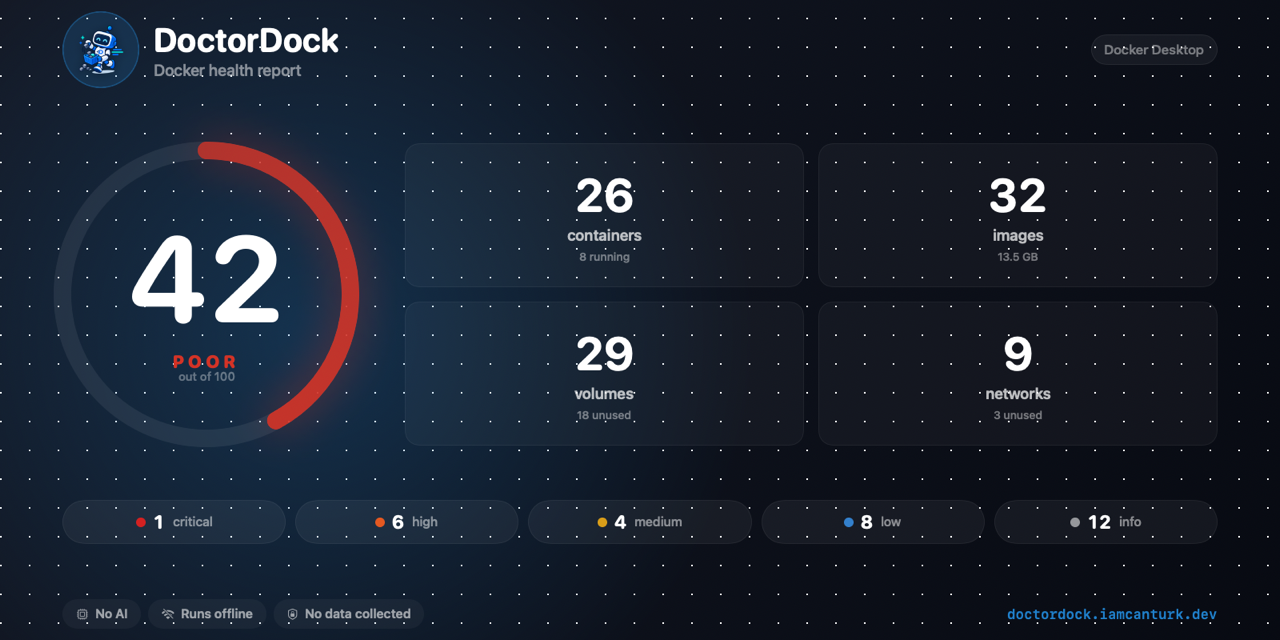
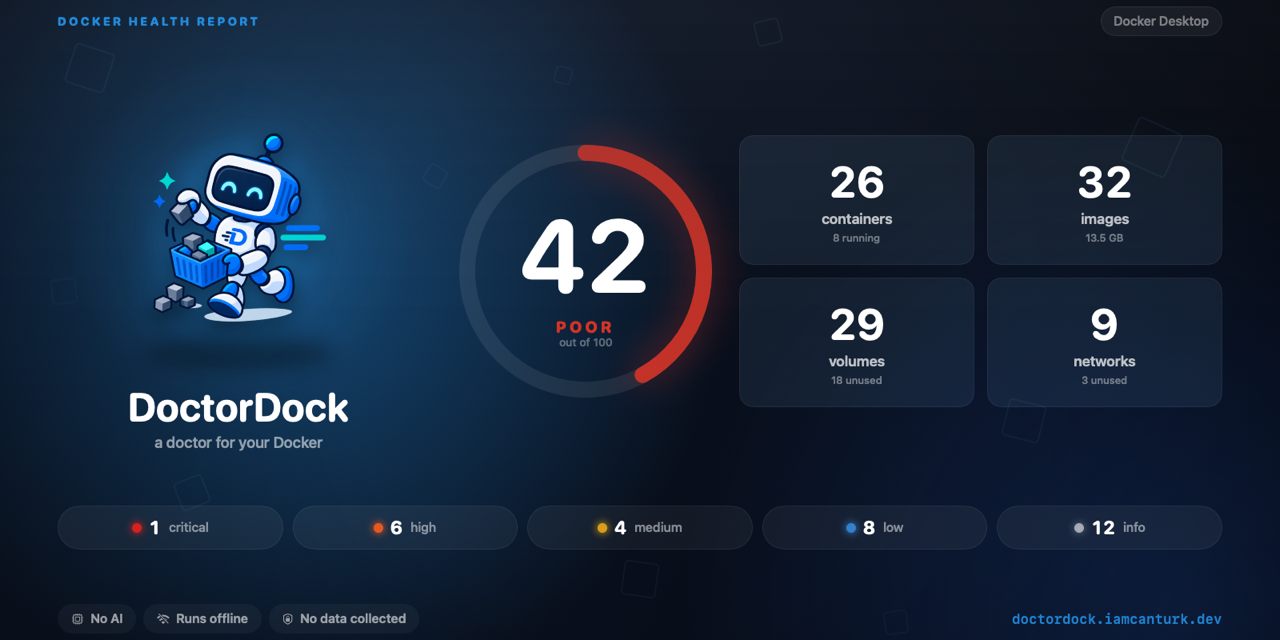
feat(app): more artistic share card — hero mascot, layered backdrop
Redesign the share card into a poster: the mascot is now a large hero
element with a glow and ground shadow, over a layered brand backdrop (blooms,
faint cube motif from the site, vignette) instead of the flat dot grid. The
score ring, metric tiles and severity row keep the aggregate-only privacy.
Re-export the OG/Twitter and GitHub social images (cache-bust to v4).

diff --git a/app/macos/Sources/DoctorDockApp/Panel/ShareCard.swift b/app/macos/Sources/DoctorDockApp/Panel/ShareCard.swift
@@ -14,7 +14,9 @@ import AppKit
 ///
 /// The canvas is 16:9. That is the size X, LinkedIn and most feeds display a
 /// single image at without cropping, and it doubles as the site's link-preview
-/// (og:image / twitter:image) card.
+/// (og:image / twitter:image) card. The composition is deliberately poster-like:
+/// the mascot is a hero element on the left, the numbers a clean panel on the
+/// right, over a layered brand-blue backdrop.
 struct ShareCard: View {
     let score: Int
     let summary: Summary
@@ -31,19 +33,21 @@ struct ShareCard: View {
         ZStack {
             background
             VStack(spacing: 0) {
-                header
-                Spacer(minLength: 20)
-                HStack(spacing: 68) {
-                    hero
-                    metrics
+                topBar
+                Spacer(minLength: 0)
+                HStack(alignment: .center, spacing: 60) {
+                    mascotPoster
+                        .frame(width: 452)
+                    stats
+                        .frame(maxWidth: .infinity)
                 }
-                Spacer(minLength: 20)
+                Spacer(minLength: 0)
                 severityRow
-                Spacer(minLength: 20)
+                Spacer(minLength: 22)
                 footer
             }
-            .padding(.horizontal, 78)
-            .padding(.vertical, 64)
+            .padding(.horizontal, 72)
+            .padding(.vertical, 58)
         }
         .frame(width: Self.size.width, height: Self.size.height)
         .environment(\.colorScheme, .dark)
@@ -53,111 +57,147 @@ struct ShareCard: View {
 
     private var background: some View {
         ZStack {
+            // Base: a deep navy, lit from the top-left.
             LinearGradient(
-                colors: [Color(red: 0.08, green: 0.10, blue: 0.15),
-                         Color(red: 0.03, green: 0.04, blue: 0.07)],
+                colors: [Color(red: 0.055, green: 0.095, blue: 0.17),
+                         Color(red: 0.02, green: 0.03, blue: 0.06)],
                 startPoint: .topLeading, endPoint: .bottomTrailing)
 
-            // A faint dot grid for texture — reads as "developer tool" without
-            // competing with the content.
-            DotGrid(spacing: 36, dotSize: 2)
-                .foregroundStyle(.white.opacity(0.03))
-
-            // A wash of the brand colour behind the score ring — the card is
-            // brand-first; the score's own colour lives in the ring itself.
+            // A big brand bloom behind the mascot, and a cooler one bottom-right,
+            // so the card has depth and a light source rather than a flat wash.
             RadialGradient(
-                colors: [Color.brand.opacity(0.22), .clear],
-                center: .init(x: 0.24, y: 0.52), startRadius: 20, endRadius: 560)
+                colors: [Color.brand.opacity(0.38), .clear],
+                center: .init(x: 0.23, y: 0.44), startRadius: 20, endRadius: 540)
+            RadialGradient(
+                colors: [Color(red: 0.13, green: 0.34, blue: 0.72).opacity(0.32), .clear],
+                center: .init(x: 0.92, y: 0.9), startRadius: 20, endRadius: 620)
+
+            // Faint outlined cubes — the same "developer tool" motif as the site,
+            // placed for texture without competing with the content.
+            CubeField()
+
+            // A soft top sheen and a vignette to focus the centre.
+            LinearGradient(colors: [.white.opacity(0.05), .clear],
+                           startPoint: .top, endPoint: .center)
+                .blendMode(.plusLighter)
+            RadialGradient(colors: [.clear, .black.opacity(0.38)],
+                           center: .center, startRadius: 380, endRadius: 1020)
         }
     }
 
-    // MARK: - Header
+    // MARK: - Top bar
 
-    private var header: some View {
-        HStack(spacing: 18) {
-            logo
-            VStack(alignment: .leading, spacing: 2) {
-                Text("DoctorDock")
-                    .font(.system(size: 42, weight: .bold, design: .rounded))
-                    .foregroundStyle(.white)
-                Text("Docker health report")
-                    .font(.system(size: 20, weight: .medium))
-                    .foregroundStyle(.white.opacity(0.5))
-            }
+    private var topBar: some View {
+        HStack(spacing: 10) {
+            Text("DOCKER HEALTH REPORT")
+                .font(.system(size: 15, weight: .heavy, design: .rounded))
+                .tracking(3)
+                .foregroundStyle(Color.brand.opacity(0.9))
             Spacer()
             if showPlatform, !platform.isEmpty {
                 Text(platform)
-                    .font(.system(size: 17, weight: .medium))
-                    .foregroundStyle(.white.opacity(0.42))
+                    .font(.system(size: 16, weight: .medium))
+                    .foregroundStyle(.white.opacity(0.44))
                     .padding(.horizontal, 16).padding(.vertical, 9)
                     .background(.white.opacity(0.05), in: Capsule())
-                    .overlay(Capsule().strokeBorder(.white.opacity(0.06)))
+                    .overlay(Capsule().strokeBorder(.white.opacity(0.07)))
             }
         }
     }
 
-    /// The mascot logo, on a soft brand-tinted disc. Falls back to a glyph in
-    /// contexts where the bundle has no copy of the image (a bare `swift run`).
-    private var logo: some View {
-        ZStack {
-            Circle()
-                .fill(Color.brand.opacity(0.16))
-                .frame(width: 96, height: 96)
-            Circle()
-                .strokeBorder(Color.brand.opacity(0.30), lineWidth: 1.5)
-                .frame(width: 96, height: 96)
-            if let mascot = BrandAsset.mascot {
-                mascot
-                    .resizable()
-                    .scaledToFit()
-                    .frame(width: 82, height: 82)
-                    .shadow(color: .black.opacity(0.35), radius: 6, y: 2)
-            } else {
-                Image(systemName: "stethoscope")
-                    .font(.system(size: 44, weight: .semibold))
-                    .foregroundStyle(Color.brand)
+    // MARK: - Mascot poster (the hero)
+
+    private var mascotPoster: some View {
+        VStack(spacing: 22) {
+            ZStack {
+                // Glow disc behind the mascot.
+                Circle()
+                    .fill(RadialGradient(
+                        colors: [Color.brand.opacity(0.5), Color.brand.opacity(0.06), .clear],
+                        center: .center, startRadius: 8, endRadius: 230))
+                    .frame(width: 420, height: 420)
+                    .blur(radius: 6)
+                // A soft ground shadow, so the character sits in the scene.
+                Ellipse()
+                    .fill(.black.opacity(0.4))
+                    .frame(width: 240, height: 36)
+                    .offset(y: 158)
+                    .blur(radius: 14)
+                mascotImage
+                    .frame(width: 320, height: 320)
+                    .shadow(color: Color.brand.opacity(0.55), radius: 34)
+                    .shadow(color: .black.opacity(0.45), radius: 12, y: 10)
+            }
+            .frame(height: 344)
+
+            VStack(spacing: 4) {
+                Text("DoctorDock")
+                    .font(.system(size: 50, weight: .bold, design: .rounded))
+                    .foregroundStyle(.white)
+                Text("a doctor for your Docker")
+                    .font(.system(size: 19, weight: .medium))
+                    .foregroundStyle(.white.opacity(0.55))
             }
         }
     }
 
-    // MARK: - Hero score
+    @ViewBuilder private var mascotImage: some View {
+        if let mascot = BrandAsset.mascot {
+            mascot.resizable().scaledToFit()
+        } else {
+            Image(systemName: "stethoscope")
+                .font(.system(size: 150, weight: .semibold))
+                .foregroundStyle(Color.brand)
+        }
+    }
+
+    // MARK: - Stats panel
+
+    private var stats: some View {
+        HStack(spacing: 44) {
+            hero
+            metrics
+        }
+    }
+
+    // MARK: - Hero score ring
 
     private var hero: some View {
         ZStack {
             Circle()
-                .stroke(.white.opacity(0.07), lineWidth: 22)
+                .stroke(.white.opacity(0.08), lineWidth: 20)
             Circle()
                 .trim(from: 0, to: CGFloat(score) / 100)
                 .stroke(
                     AngularGradient(
                         colors: [accent.opacity(0.7), accent],
                         center: .center, startAngle: .degrees(-90), endAngle: .degrees(270)),
-                    style: StrokeStyle(lineWidth: 22, lineCap: .round))
+                    style: StrokeStyle(lineWidth: 20, lineCap: .round))
                 .rotationEffect(.degrees(-90))
-                .shadow(color: accent.opacity(0.55), radius: 26)
-            VStack(spacing: -6) {
+                .shadow(color: accent.opacity(0.6), radius: 24)
+            VStack(spacing: -4) {
                 Text("\(score)")
-                    .font(.system(size: 152, weight: .bold, design: .rounded))
+                    .font(.system(size: 128, weight: .bold, design: .rounded))
                     .foregroundStyle(.white)
                     .monospacedDigit()
                 Text(Format.grade(score).uppercased())
-                    .font(.system(size: 22, weight: .heavy, design: .rounded))
-                    .tracking(5)
+                    .font(.system(size: 20, weight: .heavy, design: .rounded))
+                    .tracking(4)
                     .foregroundStyle(accent)
-                    .padding(.top, 10)
+                    .padding(.top, 8)
                 Text("out of 100")
-                    .font(.system(size: 15, weight: .medium))
+                    .font(.system(size: 14, weight: .medium))
                     .foregroundStyle(.white.opacity(0.35))
                     .padding(.top, 2)
             }
         }
-        .frame(width: 360, height: 360)
+        .frame(width: 296, height: 296)
     }
 
     // MARK: - Metrics
 
     private var metrics: some View {
-        Grid(horizontalSpacing: 18, verticalSpacing: 18) {
+        Grid(horizontalSpacing: 16, verticalSpacing: 16) {
             GridRow {
                 metric("\(summary.containers.total)", "containers",
                        sub: "\(summary.containers.running) running")
@@ -175,23 +215,28 @@ struct ShareCard: View {
     }
 
     private func metric(_ value: String, _ label: String, sub: String) -> some View {
-        VStack(spacing: 6) {
+        VStack(spacing: 5) {
             Text(value)
-                .font(.system(size: 58, weight: .bold, design: .rounded))
+                .font(.system(size: 54, weight: .bold, design: .rounded))
                 .foregroundStyle(.white)
                 .monospacedDigit()
             Text(label)
-                .font(.system(size: 19, weight: .semibold))
+                .font(.system(size: 18, weight: .semibold))
                 .foregroundStyle(.white.opacity(0.72))
             Text(sub)
-                .font(.system(size: 14, weight: .medium))
+                .font(.system(size: 13, weight: .medium))
                 .foregroundStyle(.white.opacity(0.42))
         }
         .frame(maxWidth: .infinity)
-        .padding(.vertical, 30)
-        .background(.white.opacity(0.035), in: RoundedRectangle(cornerRadius: 18, style: .continuous))
+        .padding(.vertical, 26)
+        .background(
+            RoundedRectangle(cornerRadius: 18, style: .continuous)
+                .fill(.white.opacity(0.04))
+                .background(
+                    RoundedRectangle(cornerRadius: 18, style: .continuous)
+                        .fill(Color.brand.opacity(0.05))))
         .overlay(RoundedRectangle(cornerRadius: 18, style: .continuous)
-            .strokeBorder(.white.opacity(0.05)))
+            .strokeBorder(.white.opacity(0.06)))
     }
 
     // MARK: - Severity
@@ -202,6 +247,7 @@ struct ShareCard: View {
                 let n = summary.findings.bySeverity.count(severity)
                 HStack(spacing: 9) {
                     Circle().fill(severity.color).frame(width: 12, height: 12)
+                        .shadow(color: severity.color.opacity(n > 0 ? 0.7 : 0), radius: 5)
                     Text("\(n)")
                         .font(.system(size: 23, weight: .bold, design: .rounded))
                         .monospacedDigit().foregroundStyle(.white)
@@ -212,7 +258,7 @@ struct ShareCard: View {
                 .padding(.horizontal, 22).padding(.vertical, 14)
                 .frame(maxWidth: .infinity)
                 .background(.white.opacity(n > 0 ? 0.05 : 0.02), in: Capsule())
-                .overlay(Capsule().strokeBorder(.white.opacity(n > 0 ? 0.05 : 0)))
+                .overlay(Capsule().strokeBorder(.white.opacity(n > 0 ? 0.06 : 0)))
                 .opacity(n > 0 ? 1 : 0.4)
             }
         }
@@ -262,22 +308,28 @@ enum BrandAsset {
     }()
 }
 
-/// A faint dot grid used behind the share card.
-struct DotGrid: View {
-    var spacing: CGFloat = 32
-    var dotSize: CGFloat = 2
+/// A field of faint, outlined cubes — the "developer tool" motif shared with the
+/// landing page. Positions are fixed, so the card renders identically every time.
+struct CubeField: View {
+    // x, y as a fraction of the canvas; side in points; rotation in degrees; opacity.
+    private let cubes: [(CGFloat, CGFloat, CGFloat, Double, Double)] = [
+        (0.07, 0.15, 50, 18, 0.10), (0.60, 0.10, 30, -14, 0.07),
+        (0.90, 0.26, 58, 24, 0.09), (0.50, 0.86, 42, 8, 0.06),
+        (0.15, 0.74, 36, -22, 0.08), (0.80, 0.64, 46, 14, 0.07),
+        (0.34, 0.30, 24, 32, 0.06), (0.70, 0.92, 28, -8, 0.05),
+        (0.44, 0.16, 20, 12, 0.05), (0.05, 0.46, 30, -6, 0.06),
+    ]
 
     var body: some View {
         Canvas { context, size in
-            let dot = Path(ellipseIn: CGRect(x: 0, y: 0, width: dotSize, height: dotSize))
-            var y: CGFloat = 0
-            while y < size.height {
-                var x: CGFloat = 0
-                while x < size.width {
-                    context.fill(dot.offsetBy(dx: x, dy: y), with: .color(.white))
-                    x += spacing
-                }
-                y += spacing
+            for (fx, fy, side, rot, op) in cubes {
+                let rect = CGRect(x: -side / 2, y: -side / 2, width: side, height: side)
+                let transform = CGAffineTransform(translationX: fx * size.width, y: fy * size.height)
+                    .rotated(by: rot * .pi / 180)
+                let path = Path(roundedRect: rect, cornerRadius: 4).applying(transform)
+                context.stroke(path,
+                               with: .color(Color(red: 0.35, green: 0.66, blue: 0.94).opacity(op)),
+                               lineWidth: 2)
             }
         }
     }

diff --git a/web/index.html b/web/index.html
@@ -18,7 +18,7 @@
 <meta property="og:type" content="website">
 <meta property="og:url" content="https://doctordock.iamcanturk.dev/">
 <meta property="og:locale" content="en_US">
-<meta property="og:image" content="https://doctordock.iamcanturk.dev/assets/health-card.png?v=3">
+<meta property="og:image" content="https://doctordock.iamcanturk.dev/assets/health-card.png?v=4">
 <meta property="og:image:type" content="image/png">
 <meta property="og:image:width" content="1600">
 <meta property="og:image:height" content="900">
@@ -30,7 +30,7 @@
 <meta name="twitter:creator" content="@iamcanturk">
 <meta name="twitter:title" content="DoctorDock — a doctor for your Docker">
 <meta name="twitter:description" content="Local-first Docker diagnostics: security, misconfig and cleanup findings in under a second, entirely offline. No AI, no telemetry.">
-<meta name="twitter:image" content="https://doctordock.iamcanturk.dev/assets/health-card.png?v=3">
+<meta name="twitter:image" content="https://doctordock.iamcanturk.dev/assets/health-card.png?v=4">
 <meta name="twitter:image:alt" content="A DoctorDock Docker health report card with a health score and resource counts.">
 
 <link rel="icon" href="assets/mascot.png?v=2">
